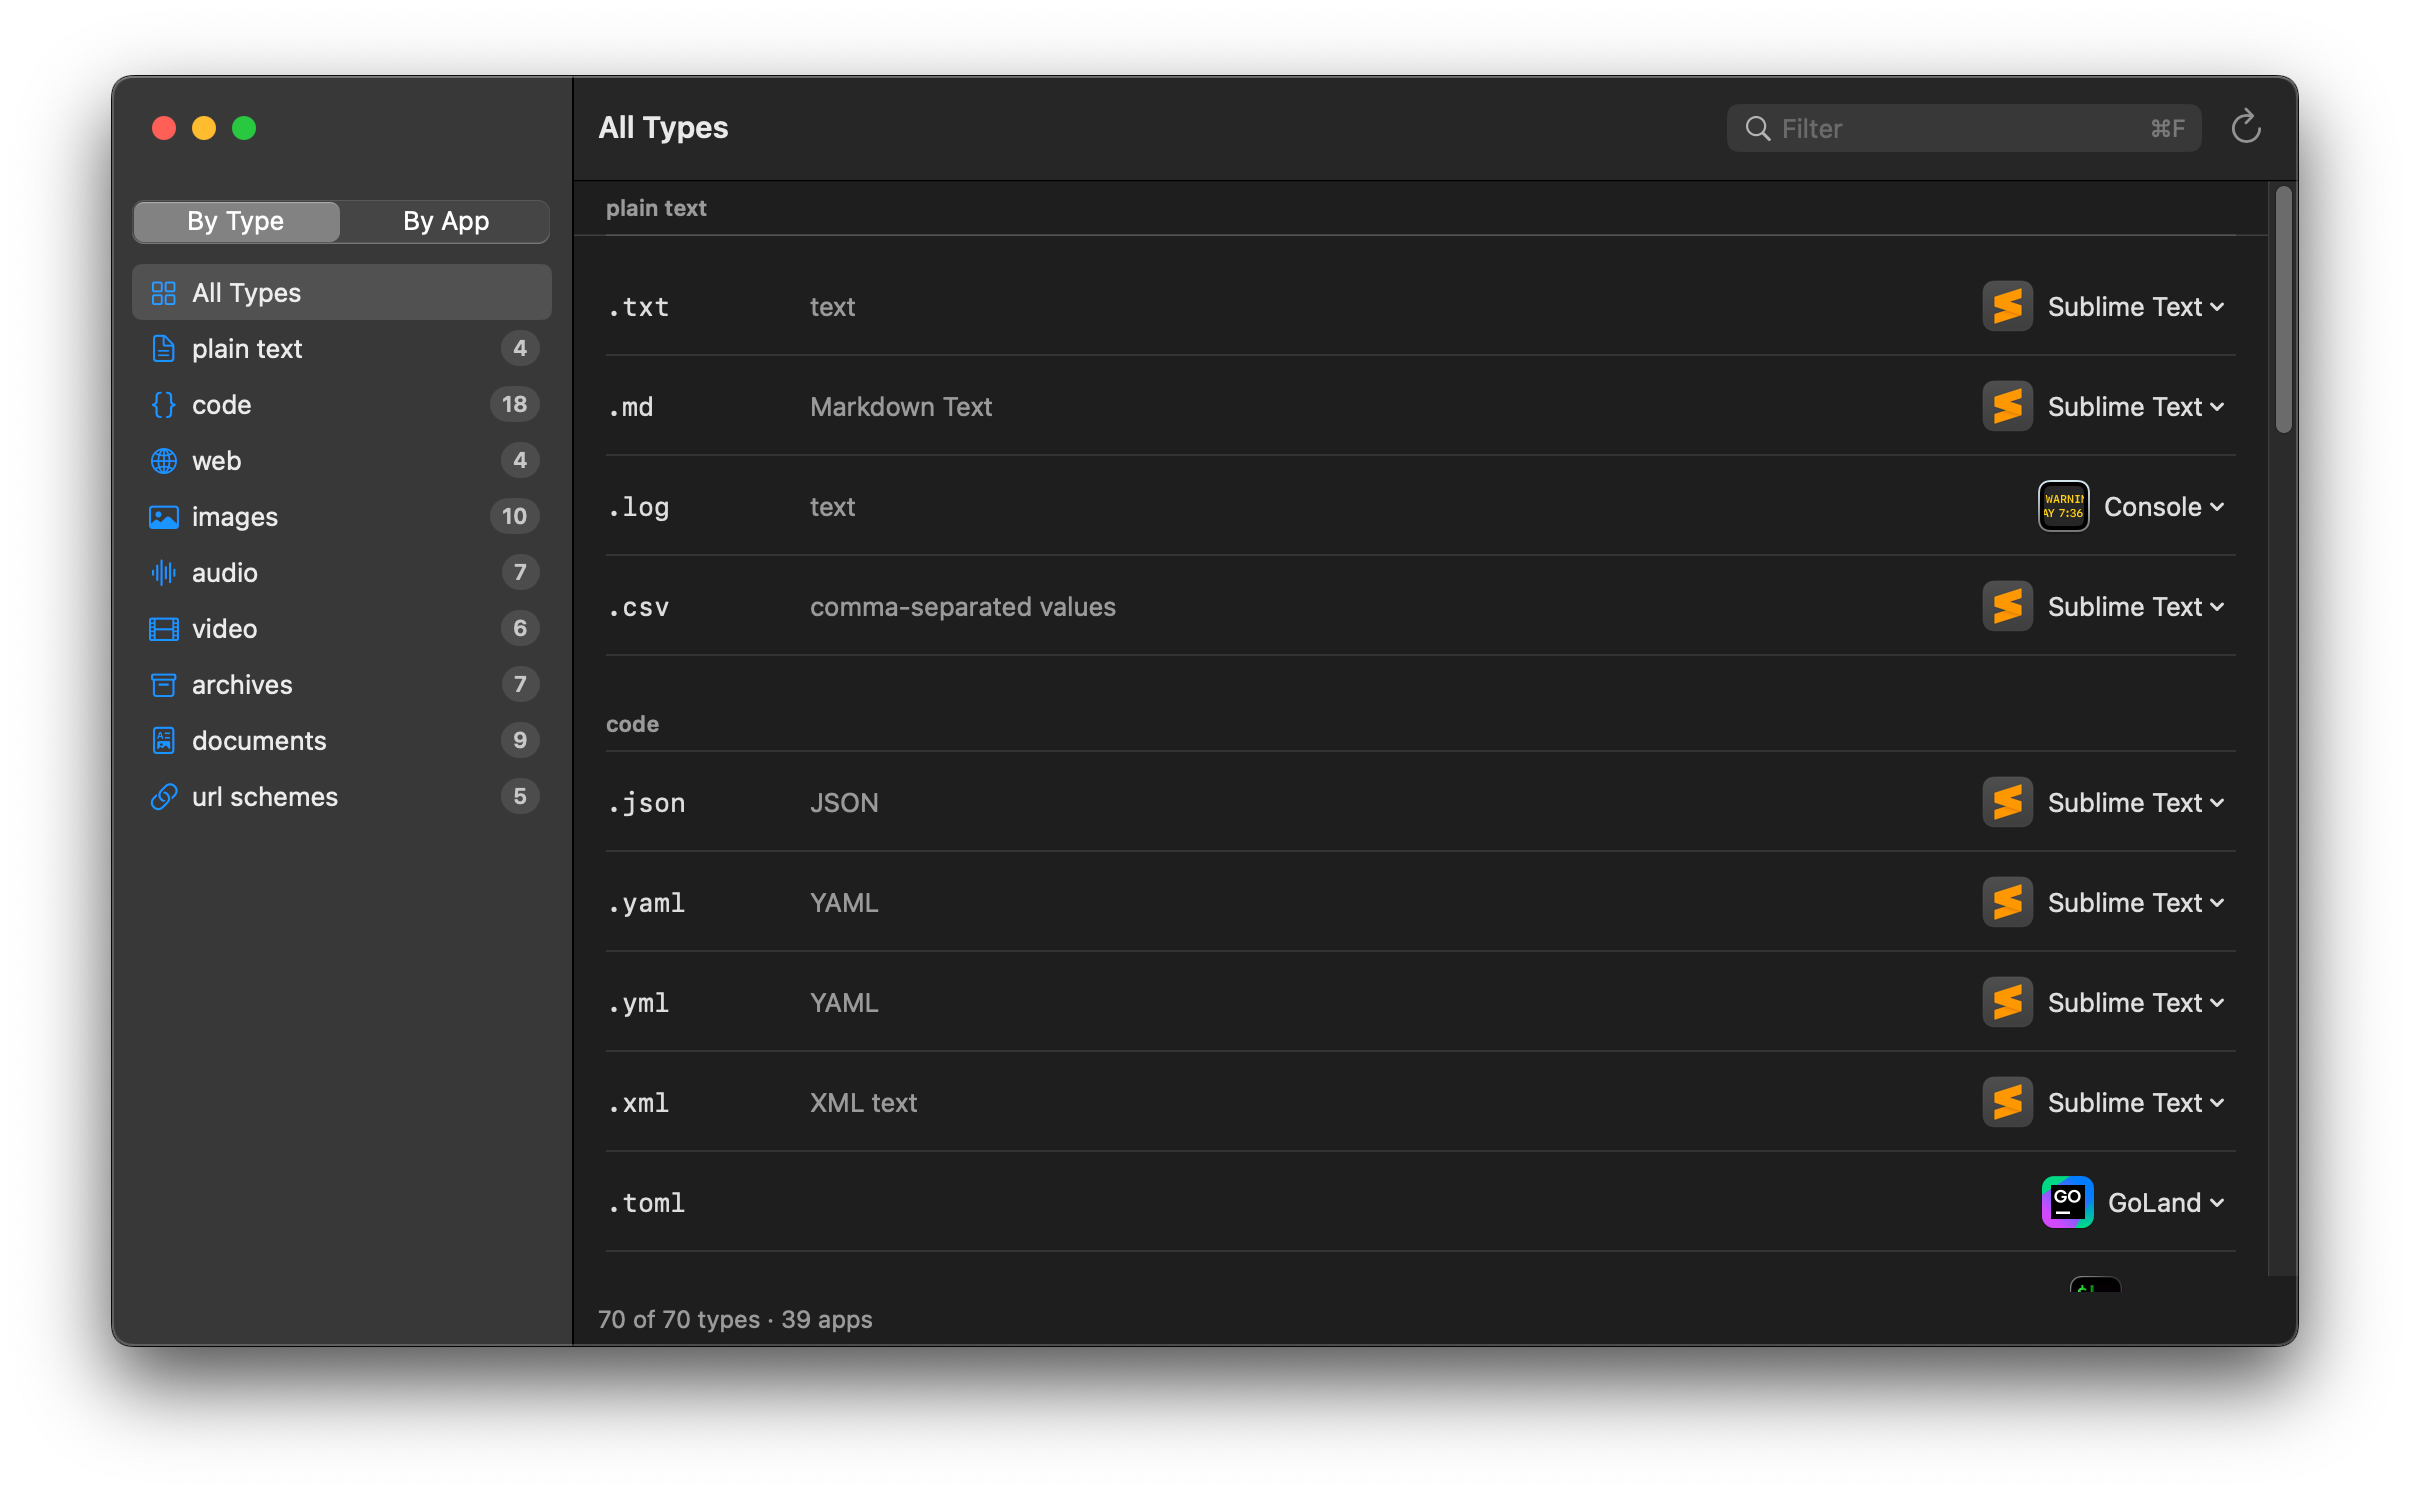
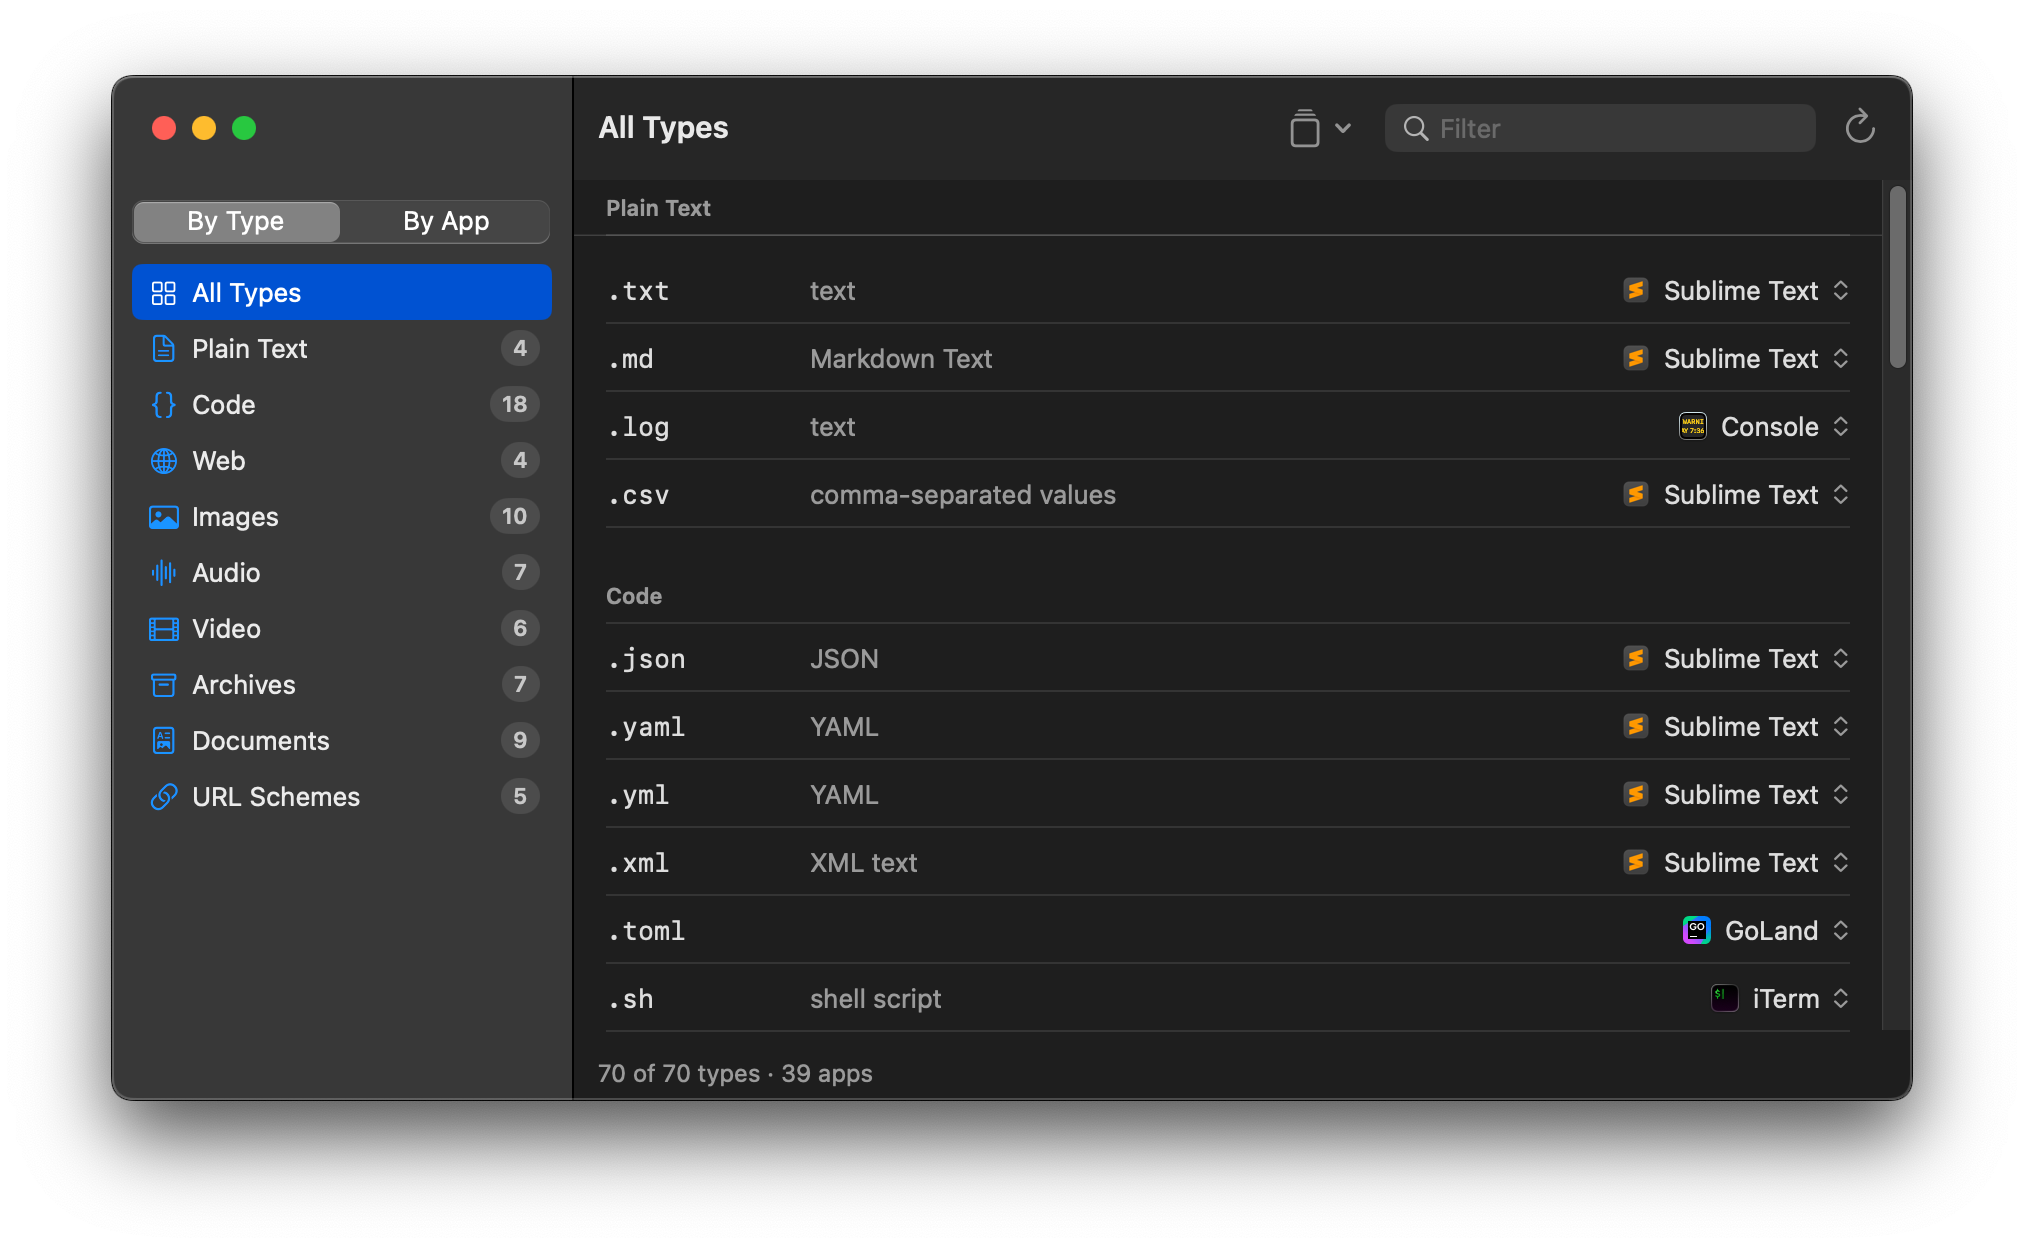
docs: fresh 0.2.0 screenshot, drop the by-app one

diff --git a/README.md b/README.md
@@ -10,8 +10,6 @@ Requires macOS 15+.
 
 ![By type: families in the sidebar, handler dropdown per row](docs/screenshots/by-type.png)
 
-![By app: everything Sublime Text handles, current owner per row](docs/screenshots/by-app.png)
-
 - Browse types by family (text, code, images, …) or flip to a per-app view showing everything an app handles — including who currently owns each type
 - Change a handler from the dropdown in each row, or pick any app via "Other…"
 - Filter across extensions, UTIs and app names (⌘F)
